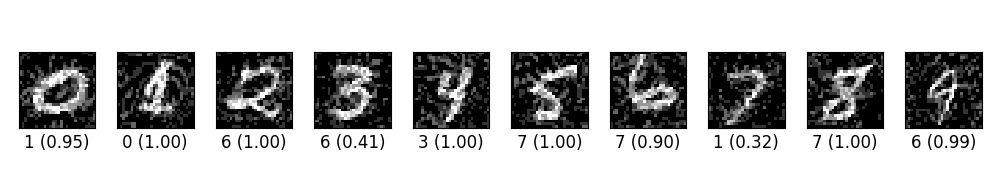
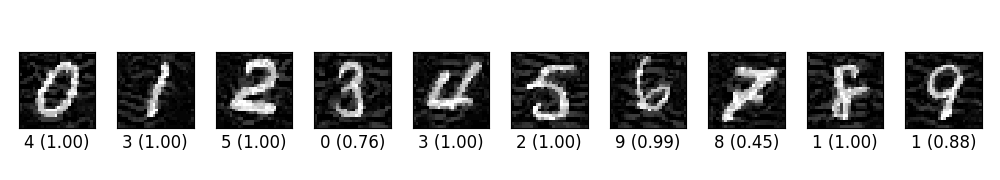
target class method

diff --git a/ex_05.py b/ex_05.py
@@ -1,7 +1,6 @@
 import os
-import time
-import gzip
-import pickle
+# supress tensorflow logging other than errors
+os.environ['TF_CPP_MIN_LOG_LEVEL'] = '3'
 
 import numpy as np
 import tensorflow as tf
@@ -18,71 +17,78 @@ matplotlib.use('Agg')
 import matplotlib.pyplot as plt
 import matplotlib.gridspec as gridspec
 
-from attacks.fgsm import fgsm
+from attacks.tgsm import tgsm
 
 
-print('Loading mnist')
+img_rows = 28
+img_cols = 28
+img_chas = 1
+input_shape = (img_rows, img_cols, img_chas)
+nb_classes = 10
+
+
+print('\nLoading mnist')
 (X_train, y_train), (X_test, y_test) = mnist.load_data()
 
 X_train = X_train.astype('float32') / 255.
 X_test = X_test.astype('float32') / 255.
 
-# assume K.image_dim_ordering() == 'tf'
-X_train = X_train.reshape(-1, 28, 28, 1)
-X_test = X_test.reshape(-1, 28, 28, 1)
-input_shape = (28, 28, 1)
+X_train = X_train.reshape(-1, img_rows, img_cols, img_chas)
+X_test = X_test.reshape(-1, img_rows, img_cols, img_chas)
 
 # one hot encoding
-y_train = np_utils.to_categorical(y_train, 10)
+y_train = np_utils.to_categorical(y_train, nb_classes)
 z0 = y_test.copy()
-y_test = np_utils.to_categorical(y_test, 10)
+y_test = np_utils.to_categorical(y_test, nb_classes)
 
-batch_size = 64
-nb_epoch = 10
-saved = True
 
 sess = tf.InteractiveSession()
 K.set_session(sess)
 
-print('Building model')
-if not saved:
-    model = Sequential()
-    model.add(Convolution2D(32, 3, 3,
-                            border_mode='valid',
-                            input_shape=(28, 28, 1)))
-    model.add(Activation('relu'))
-    model.add(Convolution2D(32, 3, 3))
-    model.add(Activation('relu'))
-    model.add(MaxPooling2D(pool_size=(2, 2)))
-    model.add(Dropout(0.25))
-    model.add(Flatten())
-    model.add(Dense(128))
-    model.add(Activation('relu'))
-    model.add(Dropout(0.5))
-    model.add(Dense(10))
-    model.add(Activation('softmax'))
+
+if True:
+    print('\nLoading model')
+    model = load_model('model/ex_05.h5')
+else:
+    print('\nBuilding model')
+    model = Sequential([
+        Convolution2D(32, 3, 3, input_shape=input_shape),
+        Activation('relu'),
+        Convolution2D(32, 3, 3),
+        Activation('relu'),
+        MaxPooling2D(pool_size=(2, 2)),
+        # Dropout(0.25),
+        Flatten(),
+        Dense(128),
+        Activation('relu'),
+        # Dropout(0.5),
+        Dense(10),
+        Activation('softmax')])
+
     model.compile(optimizer='adam', loss='categorical_crossentropy',
                   metrics=['accuracy'])
 
-    model.fit(X_train, y_train, nb_epoch=nb_epoch)
+    print('\nTraining model')
+    model.fit(X_train, y_train, nb_epoch=10)
 
+    print('\nSaving model')
     os.makedirs('model', exist_ok=True)
     model.save('model/ex_05.h5')
-else:
-    model = load_model('model/ex_05.h5')
 
 
-x = tf.placeholder(tf.float32, shape=(None, 28, 28, 1))
-y = tf.placeholder(tf.float32, shape=(None, 10))
-x_adv = fgsm(model, x, y='min', nb_epoch=4, eps=0.1)
+x = tf.placeholder(tf.float32, shape=(None, img_rows, img_cols,
+                                      img_chas))
+y = tf.placeholder(tf.float32, shape=(None, nb_classes))
+x_adv = tgsm(model, x, nb_epoch=12, eps=0.02)
 
 
-print('Testing...')
+print('\nTest against clean data')
 score = model.evaluate(X_test, y_test)
 print('\nloss: {0:.4f} acc: {1:.4f}'.format(score[0], score[1]))
 
 
 nb_sample = X_test.shape[0]
+batch_size = 128
 nb_batch = int(np.ceil(nb_sample/batch_size))
 X_adv = np.empty(X_test.shape)
 for batch in range(nb_batch):
@@ -90,21 +96,19 @@ for batch in range(nb_batch):
     start = batch * batch_size
     end = min(nb_sample, start+batch_size)
     tmp = sess.run(x_adv, feed_dict={x: X_test[start:end],
+                                     y: y_test[start:end],
                                      K.learning_phase(): 0})
     X_adv[start:end] = tmp
 
 
-print('Testing against adversarial test data')
+print('\nTest against adversarial data')
 score = model.evaluate(X_adv, y_test)
 print('\nloss: {0:.4f} acc: {1:.4f}'.format(score[0], score[1]))
 
 
-saved = False
-
-if saved:
-    with gzip.open('data/ex_05.pkl.gz', 'rb') as r:
-        X_tmp, y_adv = pickle.load(r)
-        X_tmp, y_adv = np.array(X_tmp), np.array(y)
+if False:
+    db = np.load('data/ex_05.npy')
+    X_tmp, y_adv = db['X_tmp'], db['y_adv']
 else:
     y1 = model.predict(X_test)
     z1 = np.argmax(y1, axis=1)
@@ -122,10 +126,11 @@ else:
         y_adv[i] = y2[cur]
 
     os.makedirs('data', exist_ok=True)
-    with gzip.open('data/ex_05.pkl.gz', 'wb') as w:
-        pickle.dump([X_tmp.tolist(), y_adv.tolist()], w)
+    with open('data/ex_05.npy', 'wb') as w:
+        np.savez(w, X_tmp=X_tmp, y_adv=y_adv)
 
 
+print('\nPlotting results')
 fig = plt.figure(figsize=(10, 1.8))
 gs = gridspec.GridSpec(1, 10, wspace=0.1, hspace=0.1)
 
@@ -138,6 +143,7 @@ for i in range(10):
     ax.set_yticks([])
     ax.set_xlabel('{0} ({1:.2f})'.format(label[i], p[i]), fontsize=12)
 
+print('\nSaving figure')
 gs.tight_layout(fig)
 os.makedirs('img', exist_ok=True)
 plt.savefig('img/ex_05.png')

diff --git a/attacks/fgsm.py b/attacks/fgsm.py
@@ -22,11 +22,10 @@ def fgsm(model, x, eps=0.01, nb_epoch=1, clip_min=0., clip_max=1.):
             labels=target, logits=logits)
         dy_dx, = tf.gradients(loss, x_adv)
         x_adv = tf.stop_gradient(x_adv + eps*tf.sign(dy_dx))
+        x_adv = tf.clip_by_value(x_adv, clip_min, clip_max)
         return x_adv, i+1
 
     i = tf.Variable(0)
     x_adv, i = tf.while_loop(_cond, _body, (x_adv, i),
                              back_prop=False, name='fgsm')
-    x_adv = tf.clip_by_value(x_adv, clip_min, clip_max)
-
     return x_adv

diff --git a/ex_00.py b/ex_00.py
@@ -126,7 +126,7 @@ else:
         y_adv[i] = y2[cur]
 
     os.makedirs('data', exist_ok=True)
-    with open('data/ex_00.npy', 'w') as w:
+    with open('data/ex_00.npy', 'wb') as w:
         np.savez(w, X_tmp=X_tmp, y_adv=y_adv)
 
 

diff --git a/README.md b/README.md
@@ -15,14 +15,23 @@ return a Tensorflow operation which could be run through
   [basic](https://arxiv.org/abs/1412.6572)/[iterative](https://arxiv.org/abs/1607.02533)
 
     ```python
-fgsm(model, x, eps=0.01, nb_epoch=1, clip_min=0., clip_max=1.)
+fgsm(model, x, eps=0.01, nb_epoch=1, clip_min=0.0, clip_max=1.0)
     ```
+
+- [Target class Gradient Sign Method (TGSM)](https://arxiv.org/abs/1607.02533)
+
+    ```python
+tgsm(model, x, y=None, eps=0.01, nb_epoch=1, clip_min=0.0, clip_max=1.0)
+    ```
+
+    When `y=None`, this implements the least-likely class method.  If
+    `y` is an integer or a list of integers, the source image is
+    modified towards label `y`.
 
 - [Jacobian-based Saliency Map Approach (JSMA)](https://arxiv.org/abs/1511.07528)
 
     ```python
-jsma(model, x, y, nb_epoch=None, tol=1.0, eps=1., clip_min=0.0,
-clip_max=1.0, pair=False, min_proba=0.0)
+jsma(model, x, y, nb_epoch=None, tol=1.0, eps=1., clip_min=0.0, clip_max=1.0, pair=False, min_proba=0.0)
     ```
 
     `y` is the target label, could be an integer or a list.  `tol`
